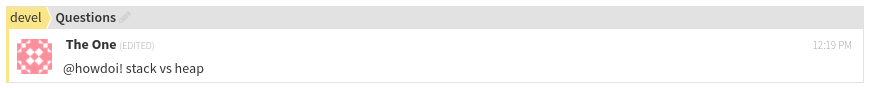
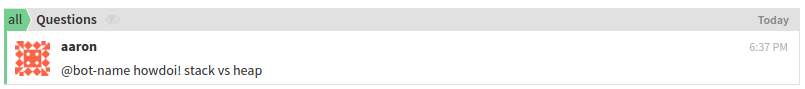
bots: Modify howdoi/readme.md to correctly call 'howdoi' bot.
Update images with new commands screenshots for better understanding.

Changed region(s): [[0.0, 0.0682, 0.9938, 0.9545], [0.9317, 0.4545, 0.9938, 0.5909], [0.9317, 0.1818, 0.9938, 0.2955]]

diff --git a/zulip_bots/zulip_bots/bots/howdoi/readme.md b/zulip_bots/zulip_bots/bots/howdoi/readme.md
@@ -10,18 +10,18 @@ Benjamin Gleitzman.
 Simply prepend your questions with one of the following commands. The
 answer will be formatted differently depending the chosen command.
 
-| Command     | Respond                                                |
-| ----------- | ------------------------------------------------------ |
-| `@howdowe`  | Concise answer to the same stream.                     |
-| `@howdowe!` | Same as `@howdowe` but with full answer and URL of the solutions. |
-| `@howdoi`   | Concise answer replied to sender via private message.  |
-| `@howdoi!`  | Same as `@howdoi` but with full answer and URL of the solutions. |
+| Command                 | Respond                                                |
+| ----------------------- | ------------------------------------------------------ |
+| `@mention-bot howdowe`  | Concise answer to the same stream.                     |
+| `@mention-bot howdowe!` | Same as `@mention-bot howdowe` but with full answer and URL of the solutions. |
+| `@mention-bot howdoi`   | Concise answer replied to sender via private message.  |
+| `@mention-bot howdoi!`  | Same as `@mention-bot howdoi` but with full answer and URL of the solutions. |
 
 ## Screenshots
 
 #### Example 1
 
-Question -> `@howdowe use supervisor in elixir`
+Question -> `@mention-bot howdowe use supervisor in elixir`
 
   ![howdowe question](assets/question_howdowe.png)
 
@@ -32,7 +32,7 @@ of the answer.
 
 #### Example 2
 
-Question -> `@howdoi! stack vs heap`
+Question -> `@mention-bot howdoi! stack vs heap`
 
   ![howdoi! question](assets/question_howdoi_all.png)
 
@@ -51,6 +51,6 @@ This could be adjusted in the source code (`HowdoiHandler.MAX_LINE_LENGTH`).
 instead of a complete sentences (eg: "How do i make a decorator in Python"
 -> "python decorator").
 
-* __[*Limitation*]__ If a answer contains multiple code blocks, the `@howdoi`
-and `@howdowe` commands would only return the first coding section, use
-`@howdo[we|i]!` in that case.
+* __[*Limitation*]__ If a answer contains multiple code blocks, the `@mention-bot howdoi`
+and `@mention-bot howdowe` commands would only return the first coding section, use
+`@mention-bot howdo[we|i]!` in that case.
